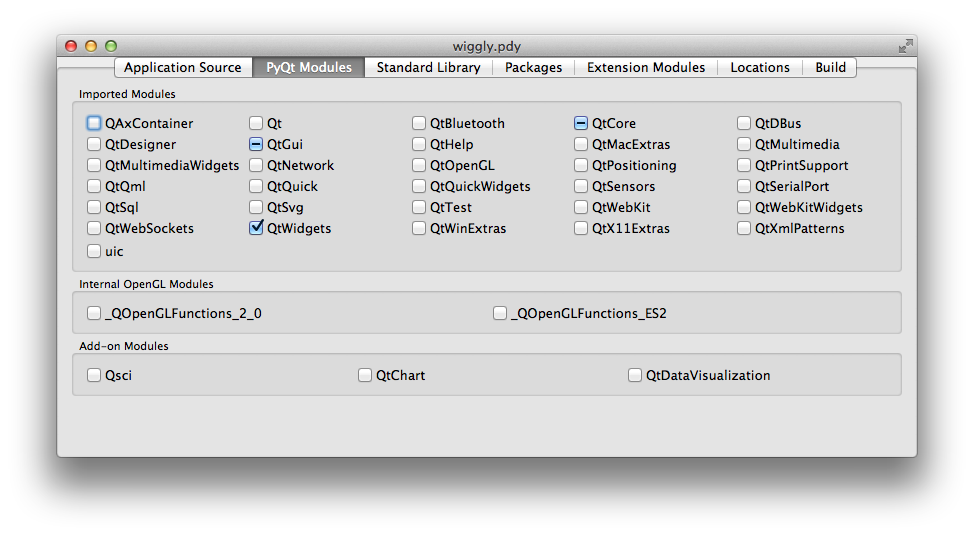
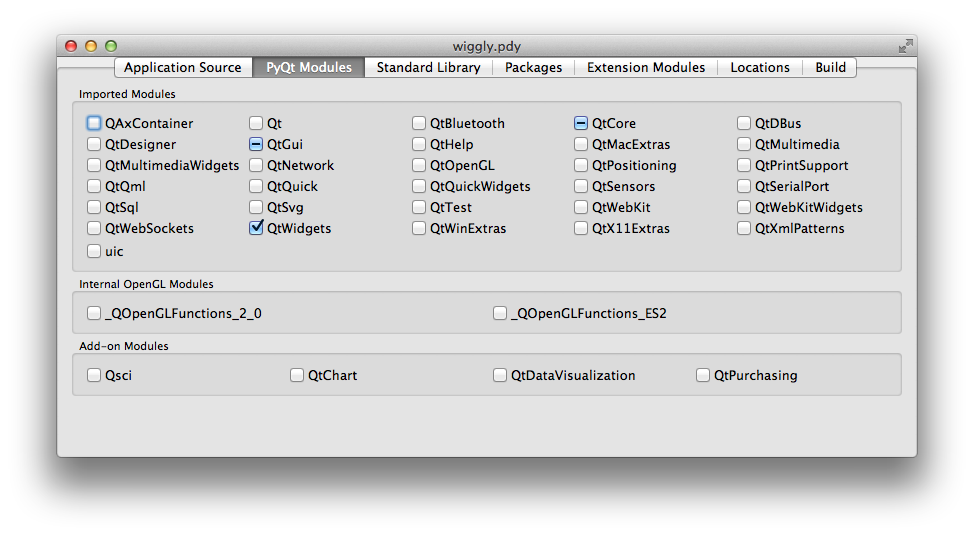
Added support for PyQtPurchasing.

Changed region(s): [[0.4928, 0.6866, 0.8316, 0.7164], [0.2772, 0.6866, 0.4312, 0.7164]]

diff --git a/pyqtdeploy/metadata/pyqt5.py b/pyqtdeploy/metadata/pyqt5.py
@@ -179,6 +179,11 @@ pyqt5_metadata = {
                                     deps=['QtGui'],
                                     qt5=['datavisualization']),
 
+    'QtPurchasing':             PyQt5Metadata(
+                                    group='addon',
+                                    deps=['QtCore'],
+                                    qt5=['purchasing']),
+
     'Qsci':                     PyQt5Metadata(
                                     group='addon',
                                     deps=['QtWidgets'],

diff --git a/doc/static_builds.rst b/doc/static_builds.rst
@@ -201,6 +201,28 @@ See notes [#target]_, [#docstrings]_, [#qmake]_, [#sip]_, [#qtbug39300]_ and
 [#iphone]_.
 
 
+Qt Purchasing
+-------------
+
+To build a static version of the Qt Purchasing library, change to the Qt
+Purchasing source directory and run::
+
+    qmake "CONFIG+=release staticlib"
+    make
+    make install
+
+To build a static version of the Python bindings, change to the PyQtPurchasing
+source directory and run::
+
+    pyqtdeploy --package pyqtpurchasing --target TARGET configure
+    python configure.py --static --sysroot=$SYSROOT --no-sip-files --no-qsci-api --configuration=pyqtpurchasing-TARGET.cfg
+    make
+    make install
+
+See notes [#target]_, [#docstrings]_, [#qmake]_, [#sip]_, [#qtbug39300]_ and
+[#iphone]_.
+
+
 .. rubric:: Notes
 
 .. [#target] If you are building a native version of the package then you may
